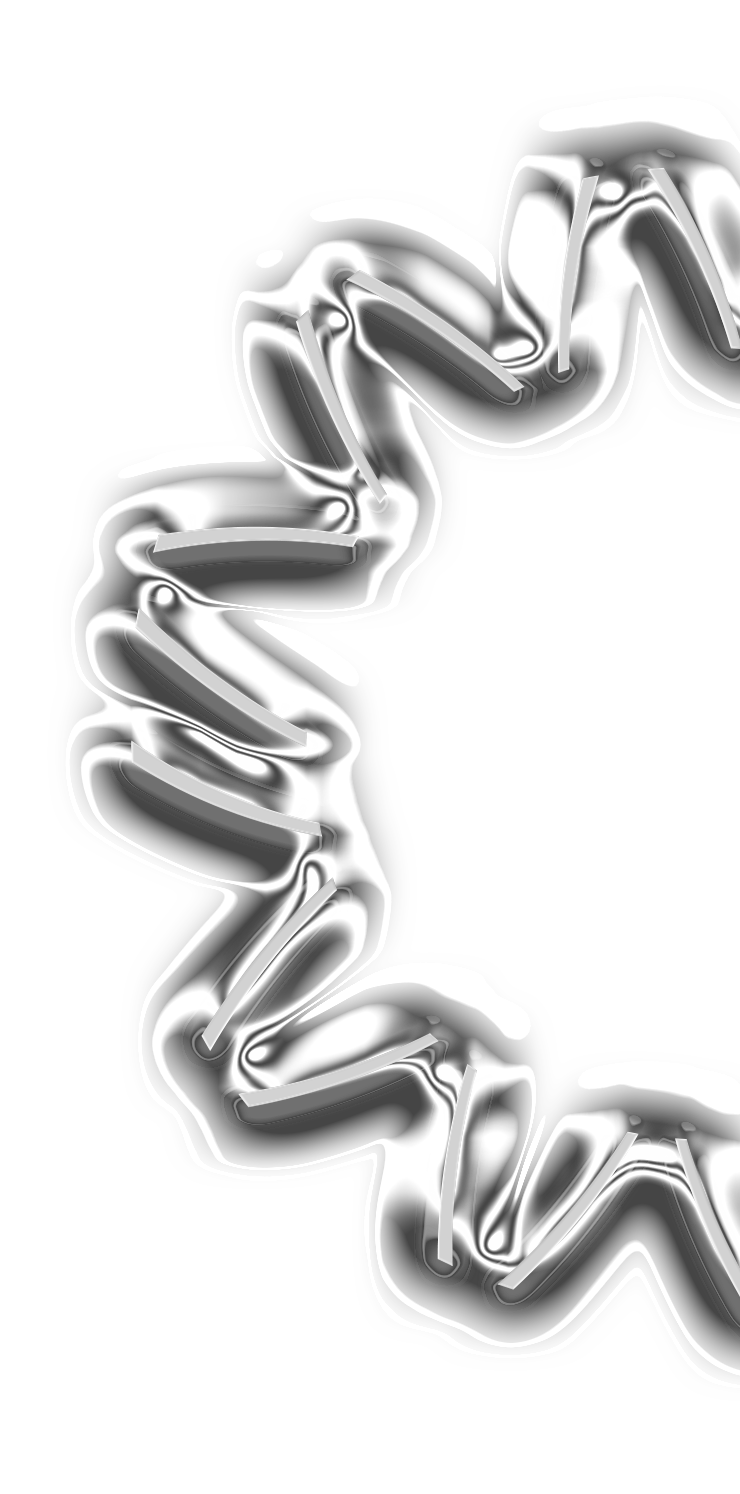
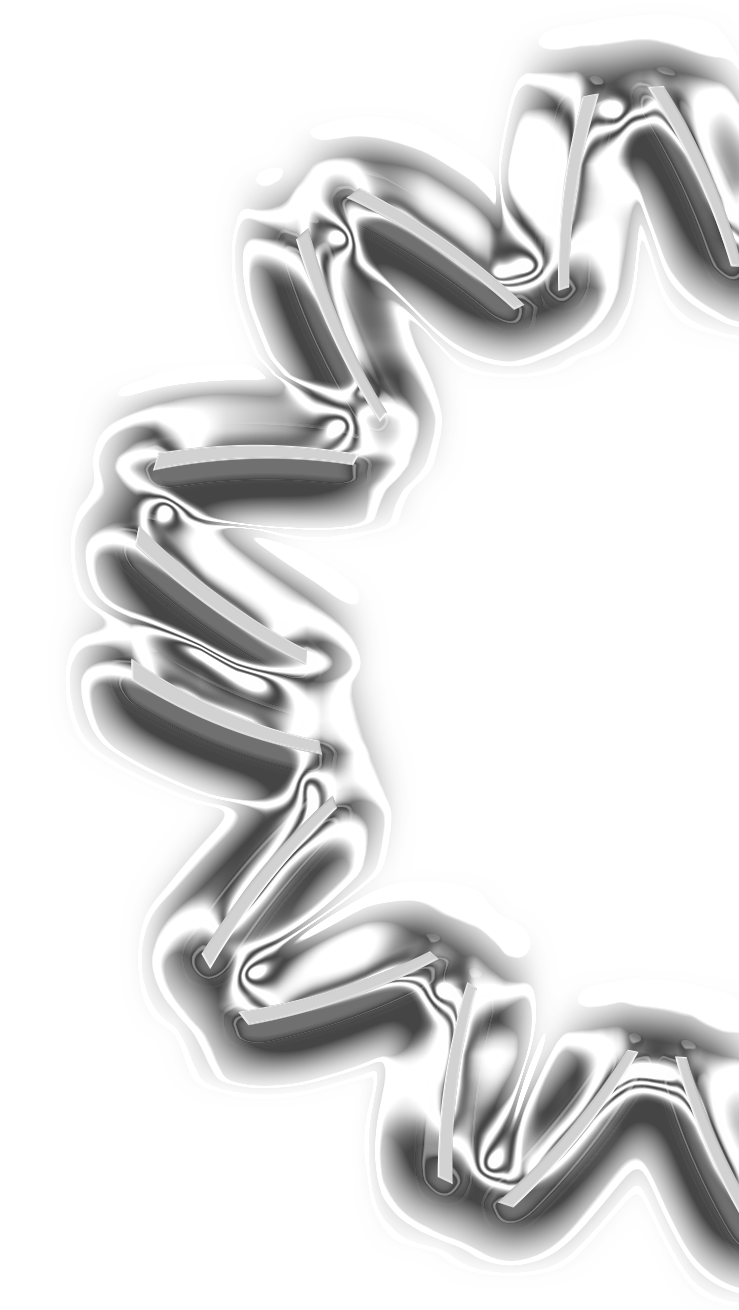
portfolio + slideshow + design

diff --git a/index.html b/index.html
@@ -76,9 +76,10 @@
                         <li><a href="#home">Home</a></li>
                         <li><a href="#about">About Us</a></li>
                         <li><a href="#service">Service</a></li>
-                        <li><a href="#team">Our Team</a></li>
+                        <li><a href="#team">Spotlight</a></li>
                         <li><a href="#portfolio">Our Work</a></li>
-                        <li><a href="#contactus">Contact</a></li>
+                        <li><a href="https://awa-portfolio.tumblr.com" target="_blank">Portfolio</a></li>
+                        <!-- <li><a href="#contactus">Contact</a></li> -->
                     </ul>
                     <a href="#" class="cd-close-menu">Close<span></span></a>
                 </nav>
@@ -124,7 +125,7 @@
                                 </div> -->
                                 <div class="about_content colorstext2 wow fadeInUp" data-wow-duration="700ms">
                                     <div class="row">
-                                        <div class="col-sm-4 col-sm-offset-1">
+                                        <div class="col-sm-4 col-sm-offset-1 table-column">
                                             <div class="single_abt single_about container1">
                                                 <h3>ART WALLS & ARCHITECTURE</h3>
                                                 <p class="text-uppercase colorstext home-text">More than just an architecture studio.</p>
@@ -135,7 +136,7 @@
                                             </div>
                                         </div>
 
-                                        <div class="col-sm-6 col-sm-offset-1">
+                                        <div class="col-sm-6 col-sm-offset-1 table-column">
                                             <div class="single_abt single_about_right_img">
                                                 <img src="assets/images/ESQUINA STUFF 14.png" alt="" />
                                             </div>
@@ -216,9 +217,8 @@
                     <div class="row">
                         <div class="main_service_area text-center padding-bottom-80">
                             <div class="head_title text-center wow fadeInUp">
-                                <h2>Services</h2>
-                                <p class="text-background-grey">Lorem Ipsum has been the industry's standard dummy text ever since the 1500s,
-                                    when an unknown printer took a galley of type and scrambled it to make</p>
+                                <h2><span class="text-background-grey">Service</span></h2>
+                                <p class="text-background-grey">We specialize in three main services that come together to form a complete image and feel to each project</p>
                             </div>
 
                             <div class="col-sm-4 wow fadeInLeft">
@@ -232,17 +232,6 @@
                                 </div>
                             </div><!-- End of col-sm-4 -->
 
-                            <div class="col-sm-4 wow fadeInUp">
-                                <div class="single_service margin-top-40">
-                                    <div class="single_service_img">
-                                        <img src="assets/images/design.png" alt="" />
-                                    </div>
-                                    <div class="service_btn">
-                                        <a href="https://awa-portfolio.tumblr.com/tagged/design" target="_blank" class="btn btn-larg">Design</a>
-                                    </div>
-                                </div>
-                            </div><!-- End of col-sm-4 -->
-
                             <div class="col-sm-4 wow fadeInRight">
                                 <div class="single_service margin-top-40">
                                     <div class="single_service_img">
@@ -250,6 +239,17 @@
                                     </div>
                                     <div class="service_btn">
                                         <a href="https://awa-portfolio.tumblr.com/tagged/branding" target="_blank" class="btn btn-larg">Branding</a>
+                                    </div>
+                                </div>
+                            </div><!-- End of col-sm-4 -->
+
+                            <div class="col-sm-4 wow fadeInUp">
+                                <div class="single_service margin-top-40">
+                                    <div class="single_service_img">
+                                        <img src="assets/images/design.png" alt="" />
+                                    </div>
+                                    <div class="service_btn">
+                                        <a href="https://awa-portfolio.tumblr.com/tagged/design" target="_blank" class="btn btn-larg">Design</a>
                                     </div>
                                 </div>
                             </div><!-- End of col-sm-4 -->
@@ -270,37 +270,37 @@
                     <div class="row">
                         <div class="main_service_area main_team_area">
                             <div class="head_title text-center wow fadeInUp">
-                                <h2>Spotlight</h2>
+                                <h2><span class="text-background-black">Spotlight</span></h2>
                                 <p class="text-background-black">Some of our most recent + prominent projects</p>
                             </div>
 
                             <div class="main_team_content wow fadeInUp">
                                 <div class="col-sm-4 col-xs-12">
                                     <div class="single_team margin-top-40">
-                                        <img src="assets/images/team1.jpg" alt="" />
+                                        <img src="assets/images/ligierPeron.png" alt="" />
                                         <div class="single_team_text">
-                                            <h4>Trescha restaurant</h4>
-                                            <p>uI & ux desgner</p>
+                                            <h4>Ligier/Vinos guardados</h4>
+                                            <p>rebrand project</p>
                                         </div>
                                     </div>
                                 </div><!-- End of col-sm-4 -->
 
                                 <div class="col-sm-4 col-xs-12">
                                     <div class="single_team margin-top-40">
-                                        <img src="assets/images/team2.jpg" alt="" />
+                                        <img src="assets/images/jakimOffice.png" alt="" />
                                         <div class="single_team_text">
                                             <h4>Jakim offices</h4>
-                                            <p>creative graphic designer</p>
+                                            <p>Real estate headquarters</p>
                                         </div>
                                     </div>
                                 </div><!-- End of col-sm-4 -->
 
                                 <div class="col-sm-4 col-xs-12">
                                     <div class="single_team margin-top-40">
-                                        <img src="assets/images/team3.jpg" alt="" />
+                                        <img src="assets/images/esquinaShowroom.png" alt="" />
                                         <div class="single_team_text">
                                             <h4>Esquina Showroom</h4>
-                                            <p>ui & ux Designer</p>
+                                            <p>concept art showroom</p>
                                         </div>
                                     </div>
                                 </div><!-- End of col-sm-4 -->
@@ -318,27 +318,26 @@
                             <div class="col-sm-12">
                                 <div class="head_title margin-top-80 wow fadeInUp">
                                     <h2>our work</h2>
-                                    <p>Loem Ipsum has been the industry's standard dummy text ever since the 1500s, 
-                                        when an unknown printer took a galley of type and scrambled it to make</p>
+                                    <p>Sneak peak into our portfolio</p>
                                 </div>
                             </div>
 
                             <div class="main_portfolio_content sections wow fadeInUp">
                                 <div class="col-sm-8">
                                     <div class="single_portfolio single_portfolio_1st">
-                                        <a href="assets/images/portfolio1.jpg" class="gallery-img"><img src="assets/images/portfolio1.jpg" alt="" /></a>
+                                        <a href="assets/images/treschaMurillo.jpg" class="gallery-img"><img src="assets/images/treschaMurillo.jpg" alt="" /></a>
                                     </div>
                                 </div><!-- End of col-sm-8 -->
                                 <div class="col-sm-4">
                                     <div class="row">
                                         <div class="col-sm-12">
                                             <div class="single_portfolio">
-                                                <a href="assets/images/portfolio2.jpg" class="gallery-img"><img src="assets/images/portfolio2.jpg" alt="" /></a>
+                                                <a href="assets/images/raizMood.jpg" class="gallery-img"><img src="assets/images/raizMood.jpg" alt="" /></a>
                                             </div>
                                         </div>
                                         <div class="col-sm-12">
                                             <div class="single_portfolio margin-top-30">
-                                                <a href="assets/images/portfolio3.jpg" class="gallery-img"><img src="assets/images/portfolio3.jpg" alt="" /></a>
+                                                <a href="assets/images/playDon.png" class="gallery-img"><img src="assets/images/playDon.png" alt="" /></a>
                                             </div>
                                         </div>
                                     </div>
@@ -348,17 +347,17 @@
                                     <div class="row">
                                         <div class="col-sm-4">
                                             <div class="single_portfolio margin-top-30">
-                                                <a href="assets/images/portfolio4.jpg" class="gallery-img"><img src="assets/images/portfolio4.jpg" alt="" /></a>
+                                                <a href="assets/images/pilarHouse.png" class="gallery-img"><img src="assets/images/pilarHouse.png" alt="" /></a>
                                             </div>
                                         </div><!-- End of col-sm-4 -->
                                         <div class="col-sm-4">
                                             <div class="single_portfolio margin-top-30">
-                                                <a href="assets/images/portfolio5.jpg" class="gallery-img"><img src="assets/images/portfolio5.jpg" alt="" /></a>
+                                                <a href="assets/images/bagatelleHipo.png" class="gallery-img"><img src="assets/images/bagatelleHipo.png" alt="" /></a>
                                             </div>
                                         </div><!-- End of col-sm-4 -->
                                         <div class="col-sm-4">
                                             <div class="single_portfolio margin-top-30">
-                                                <a href="assets/images/portfolio6.jpg" class="gallery-img"><img src="assets/images/portfolio6.jpg" alt="" /></a>
+                                                <a href="assets/images/damesPuerto.png" class="gallery-img"><img src="assets/images/damesPuerto.png" alt="" /></a>
                                             </div>
                                         </div><!-- End of col-sm-4 -->
                                     </div>
@@ -372,7 +371,7 @@
 
 
             <!-- Contact Section -->
-            <section id="contactus" class="contactus colorsbg">
+            <!-- <section id="contactus" class="contactus colorsbg">
                 <div class="container">
                     <div class="row">
                         <div class="main_service_area main_contactus_area">
@@ -410,9 +409,9 @@
                                             </div>
                                         </form>
                                     </div>
-                                </div><!-- End of col-sm-6 -->
+                                </div> End of col-sm-6 -->
 
-                                <div class="col-sm-6">
+                                <!-- <div class="col-sm-6">
                                     <div class="contact_us_right margin-top-60 margin-bottom-80 wow fadeInLeft">
                                         <div class="single_contactus">
                                             <div class="ourmap"></div>
@@ -434,14 +433,14 @@
                                             </div>
                                         </div>
 
-                                    </div>
-                                </div><!-- End of col-sm-6 -->
+                                    </div> 
+                                </div> End of col-sm-6
 
                             </div>
                         </div>
-                    </div><!-- End of row -->
-                </div><!-- End of container -->
-            </section><!-- End of Contactus Section -->
+                    </div> End of row 
+                </div> End of container 
+            </section>End of Contactus Section -->
 
 
             <!-- Contact Section -->

diff --git a/assets/css/style.css b/assets/css/style.css
@@ -120,8 +120,7 @@ PRE LOADER
 .row {
   margin-bottom: 0;
   align-items:center !important;
-  /* display: grid;
-  grid-template-columns: 1/3 2/3; */
+  vertical-align: middle;
 }
 img {
   -moz-user-select: none;
@@ -544,8 +543,8 @@ nav ul li {
   display: block;
   padding: 1.2% 10%;
   height: 100%;
-  border-bottom: 1px solid #dfdbec;
-  color: #3a393f;
+  border-bottom: 1px solid #4d4d50;
+  color: #ffffff;
   font-size: 20px;
   font-size: 1.25rem;
   font-weight: bold;
@@ -597,8 +596,9 @@ nav ul li {
 }
 
 .home_socail_bar {
-  /* background: url(../images/ruedaGordaCortada.png) no-repeat scroll 0 0; */ /*no se ve la muy puta*/
-  background: url(../images/bSidebg.png) no-repeat scroll 0 0;
+  background: url(../images/ruedaGordaCortada.png) no-repeat scroll 0 0; 
+  background-size: contain;
+  /* background: url(../images/bSidebg.png) no-repeat scroll 0 0; */
   width: 190px;
   height: 100%;
   position: absolute;
@@ -608,9 +608,10 @@ nav ul li {
 }
 .home_socail_bar ul {
   position: absolute;
-  right: 30%;
-  top: 10%;
+  right: 25%;
+  top: 23%;
 }
+
 .home_socail_bar ul li a {
   color: #fff;
 }
@@ -671,10 +672,7 @@ nav ul li {
   width: 50px;
   height: 50px;
 }
-/* 
-.container1{
-  align-items: center !important;
-} */
+
 /*=======================================================================
 Tobias section
 =========================================================================*/

diff --git a/assets/css/navmenu.css b/assets/css/navmenu.css
@@ -168,7 +168,7 @@ Main components
     left: 0;
     width: 100%;
     height: 100%;
-    background: #F9F9F9;
+    background: #1a1a1ab4;
     /* Force Hardware Acceleration in WebKit */
     -webkit-transform: translateZ(0);
     -webkit-backface-visibility: hidden;

diff --git a/assets/css/responsive.css b/assets/css/responsive.css
@@ -63,6 +63,9 @@ Author URI: http://www.Xpeedstudio.com
     padding: 80px 20px 50px 20px;
     position: relative;
   }
+  .home_socail_bar {
+    display: none;
+  }
 }
 
 /* Landscape phones and smaller */
